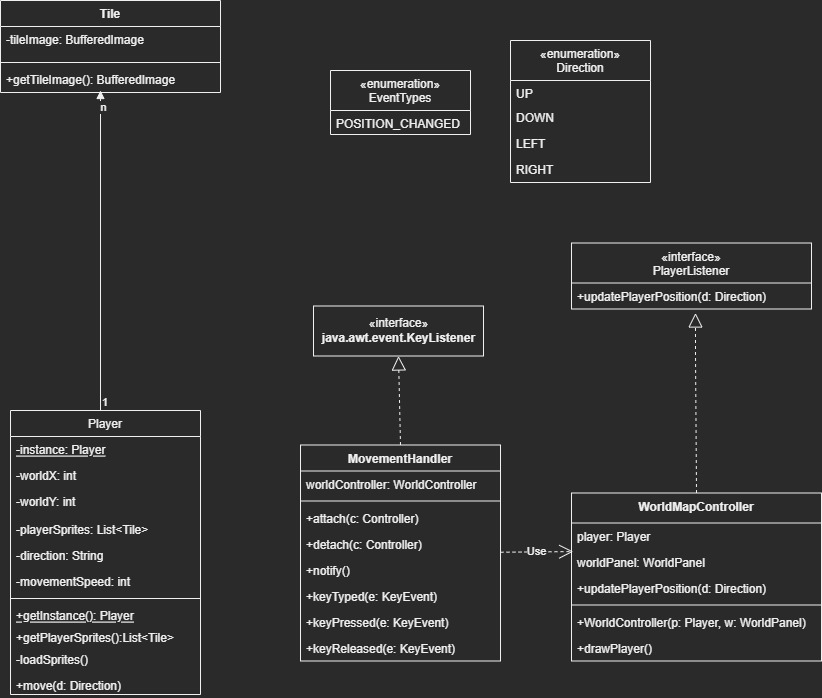
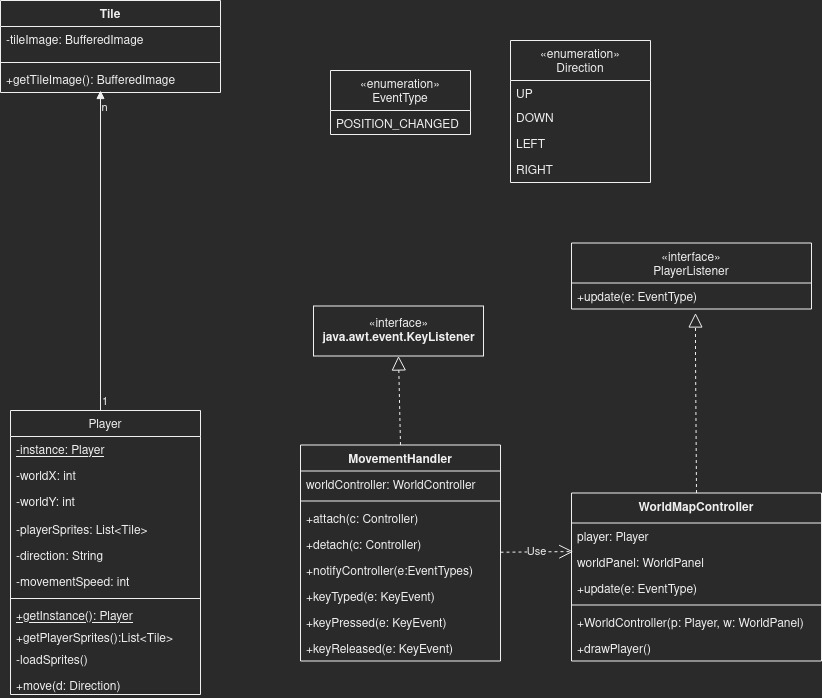
iniziati i test per WorldController

diff --git a/Progetto_ISS_22_23/src/main/java/it/unipa/iss/rpg/screen/model/MovementHandler.java b/Progetto_ISS_22_23/src/main/java/it/unipa/iss/rpg/screen/model/MovementHandler.java
@@ -1,0 +1,54 @@
+package it.unipa.iss.rpg.screen.model;
+
+import it.unipa.iss.rpg.screen.controller.WorldMapController;
+
+import java.awt.event.KeyEvent;
+import java.awt.event.KeyListener;
+
+public class MovementHandler implements KeyListener {
+    private WorldMapController worldMapController;
+    private boolean upPressed, downPressed, rightPressed, leftPressed;
+
+    public void attach(WorldMapController controller) {
+
+    }
+
+    public void detach(WorldMapController controller) {
+
+    }
+
+    private void notifyController(EventType e){
+        this.worldMapController.update(e);
+    }
+
+    @Override
+    public void keyTyped(KeyEvent e) {
+
+    }
+
+    @Override
+    public void keyPressed(KeyEvent e) {
+        int code = e.getKeyCode();
+
+        switch (code) {
+            case KeyEvent.VK_KP_UP -> {
+                this.notifyController(EventType.MOVED_UP);
+            }
+            case KeyEvent.VK_KP_DOWN -> {
+                this.notifyController(EventType.MOVED_DOWN);
+            }
+            case KeyEvent.VK_KP_LEFT ->{
+                this.notifyController(EventType.MOVED_LEFT);
+            }
+            case KeyEvent.VK_KP_RIGHT ->{
+                this.notifyController(EventType.MOVED_RIGHT);
+            }
+        }
+
+    }
+
+    @Override
+    public void keyReleased(KeyEvent e) {
+
+    }
+}

diff --git a/Progetto_ISS_22_23/src/main/java/it/unipa/iss/rpg/screen/controller/WorldMapController.java b/Progetto_ISS_22_23/src/main/java/it/unipa/iss/rpg/screen/controller/WorldMapController.java
@@ -1,0 +1,32 @@
+package it.unipa.iss.rpg.screen.controller;
+
+import it.unipa.iss.rpg.screen.model.Direction;
+import it.unipa.iss.rpg.screen.model.EventType;
+import it.unipa.iss.rpg.screen.model.IPlayerListener;
+import it.unipa.iss.rpg.screen.model.Player;
+import it.unipa.iss.rpg.screen.view.WorldPanel;
+
+public class WorldMapController implements IPlayerListener {
+    private Player player;
+    private WorldPanel worldPanel;
+
+    public WorldMapController(Player p, WorldPanel w) {
+
+    }
+
+    public void drawPlayer() {
+
+    }
+
+    @Override
+    public void update(EventType e) {
+        switch (e) {
+            case MOVED_UP -> {
+                player.move(Direction.UP);
+            }
+            case MOVED_DOWN -> player.move(Direction.DOWN);
+            case MOVED_LEFT -> player.move(Direction.LEFT);
+            case MOVED_RIGHT -> player.move(Direction.RIGHT);
+        }
+    }
+}

diff --git a/Progetto_ISS_22_23/src/test/java/it/unipa/iss/rpg/screen/model/MovementHandlerTest.java b/Progetto_ISS_22_23/src/test/java/it/unipa/iss/rpg/screen/model/MovementHandlerTest.java
@@ -1,0 +1,46 @@
+package it.unipa.iss.rpg.screen.model;
+
+import it.unipa.iss.rpg.screen.view.WorldPanel;
+import org.junit.jupiter.api.*;
+import it.unipa.iss.rpg.screen.controller.*;
+
+class MovementHandlerTest {
+    WorldMapController controller;
+    boolean attached = false;
+
+    @BeforeEach
+    void setUp() {
+        controller = new WorldMapController(Player.getInstance(), new WorldPanel());
+        testAttach();
+    }
+
+    @AfterEach
+    void tearDown() {
+        testAttach();
+    }
+
+    @Test
+    void testAttach() {
+        attached = true;
+    }
+
+    @Test
+    void testDetach() {
+        attached = false;
+    }
+
+    @Test
+    void testKeyTyped() {
+
+    }
+
+    @Test
+    void testKeyPressed() {
+
+    }
+
+    @Test
+    void testKeyReleased() {
+
+    }
+}

diff --git a/Progetto_ISS_22_23/src/test/java/it/unipa/iss/rpg/screen/controller/WorldMapControllerTest.java b/Progetto_ISS_22_23/src/test/java/it/unipa/iss/rpg/screen/controller/WorldMapControllerTest.java
@@ -1,0 +1,29 @@
+package it.unipa.iss.rpg.screen.controller;
+
+import org.junit.jupiter.api.AfterEach;
+import org.junit.jupiter.api.BeforeEach;
+import org.junit.jupiter.api.Test;
+
+import static org.junit.jupiter.api.Assertions.*;
+
+class WorldMapControllerTest {
+
+    @BeforeEach
+    void setUp() {
+
+    }
+
+    @AfterEach
+    void tearDown() {
+
+    }
+
+    @Test
+    void drawPlayer() {
+
+    }
+
+    @Test
+    void updatePlayerPosition() {
+    }
+}

diff --git a/Progetto_ISS_22_23/src/main/java/it/unipa/iss/rpg/screen/model/Tile.java b/Progetto_ISS_22_23/src/main/java/it/unipa/iss/rpg/screen/model/Tile.java
@@ -11,6 +11,8 @@ import java.awt.image.BufferedImage;
 public class Tile {
     private final BufferedImage tileImage;
 
+
+
     public Tile(BufferedImage tileImage) {
         this.tileImage = tileImage;
     }

diff --git a/Progetto_ISS_22_23/src/test/java/it/unipa/iss/rpg/screen/model/PlayerTest.java b/Progetto_ISS_22_23/src/test/java/it/unipa/iss/rpg/screen/model/PlayerTest.java
@@ -5,7 +5,7 @@ import org.junit.jupiter.api.*;
 import static org.junit.Assert.*;
 
 class PlayerTest {
-    Player p;
+    private Player p;
 
     @BeforeEach
     void setUp() {

diff --git a/Progetto_ISS_22_23/src/main/java/it/unipa/iss/rpg/screen/model/IPlayerListener.java b/Progetto_ISS_22_23/src/main/java/it/unipa/iss/rpg/screen/model/IPlayerListener.java
@@ -1,0 +1,7 @@
+package it.unipa.iss.rpg.screen.model;
+
+import it.unipa.iss.rpg.screen.model.*;
+
+public interface IPlayerListener {
+    void update(EventType e);
+}

diff --git a/Progetto_ISS_22_23/src/main/java/it/unipa/iss/rpg/screen/model/EventType.java b/Progetto_ISS_22_23/src/main/java/it/unipa/iss/rpg/screen/model/EventType.java
@@ -1,0 +1,8 @@
+package it.unipa.iss.rpg.screen.model;
+
+public enum EventType {
+    MOVED_UP,
+    MOVED_DOWN,
+    MOVED_RIGHT,
+    MOVED_LEFT
+}
